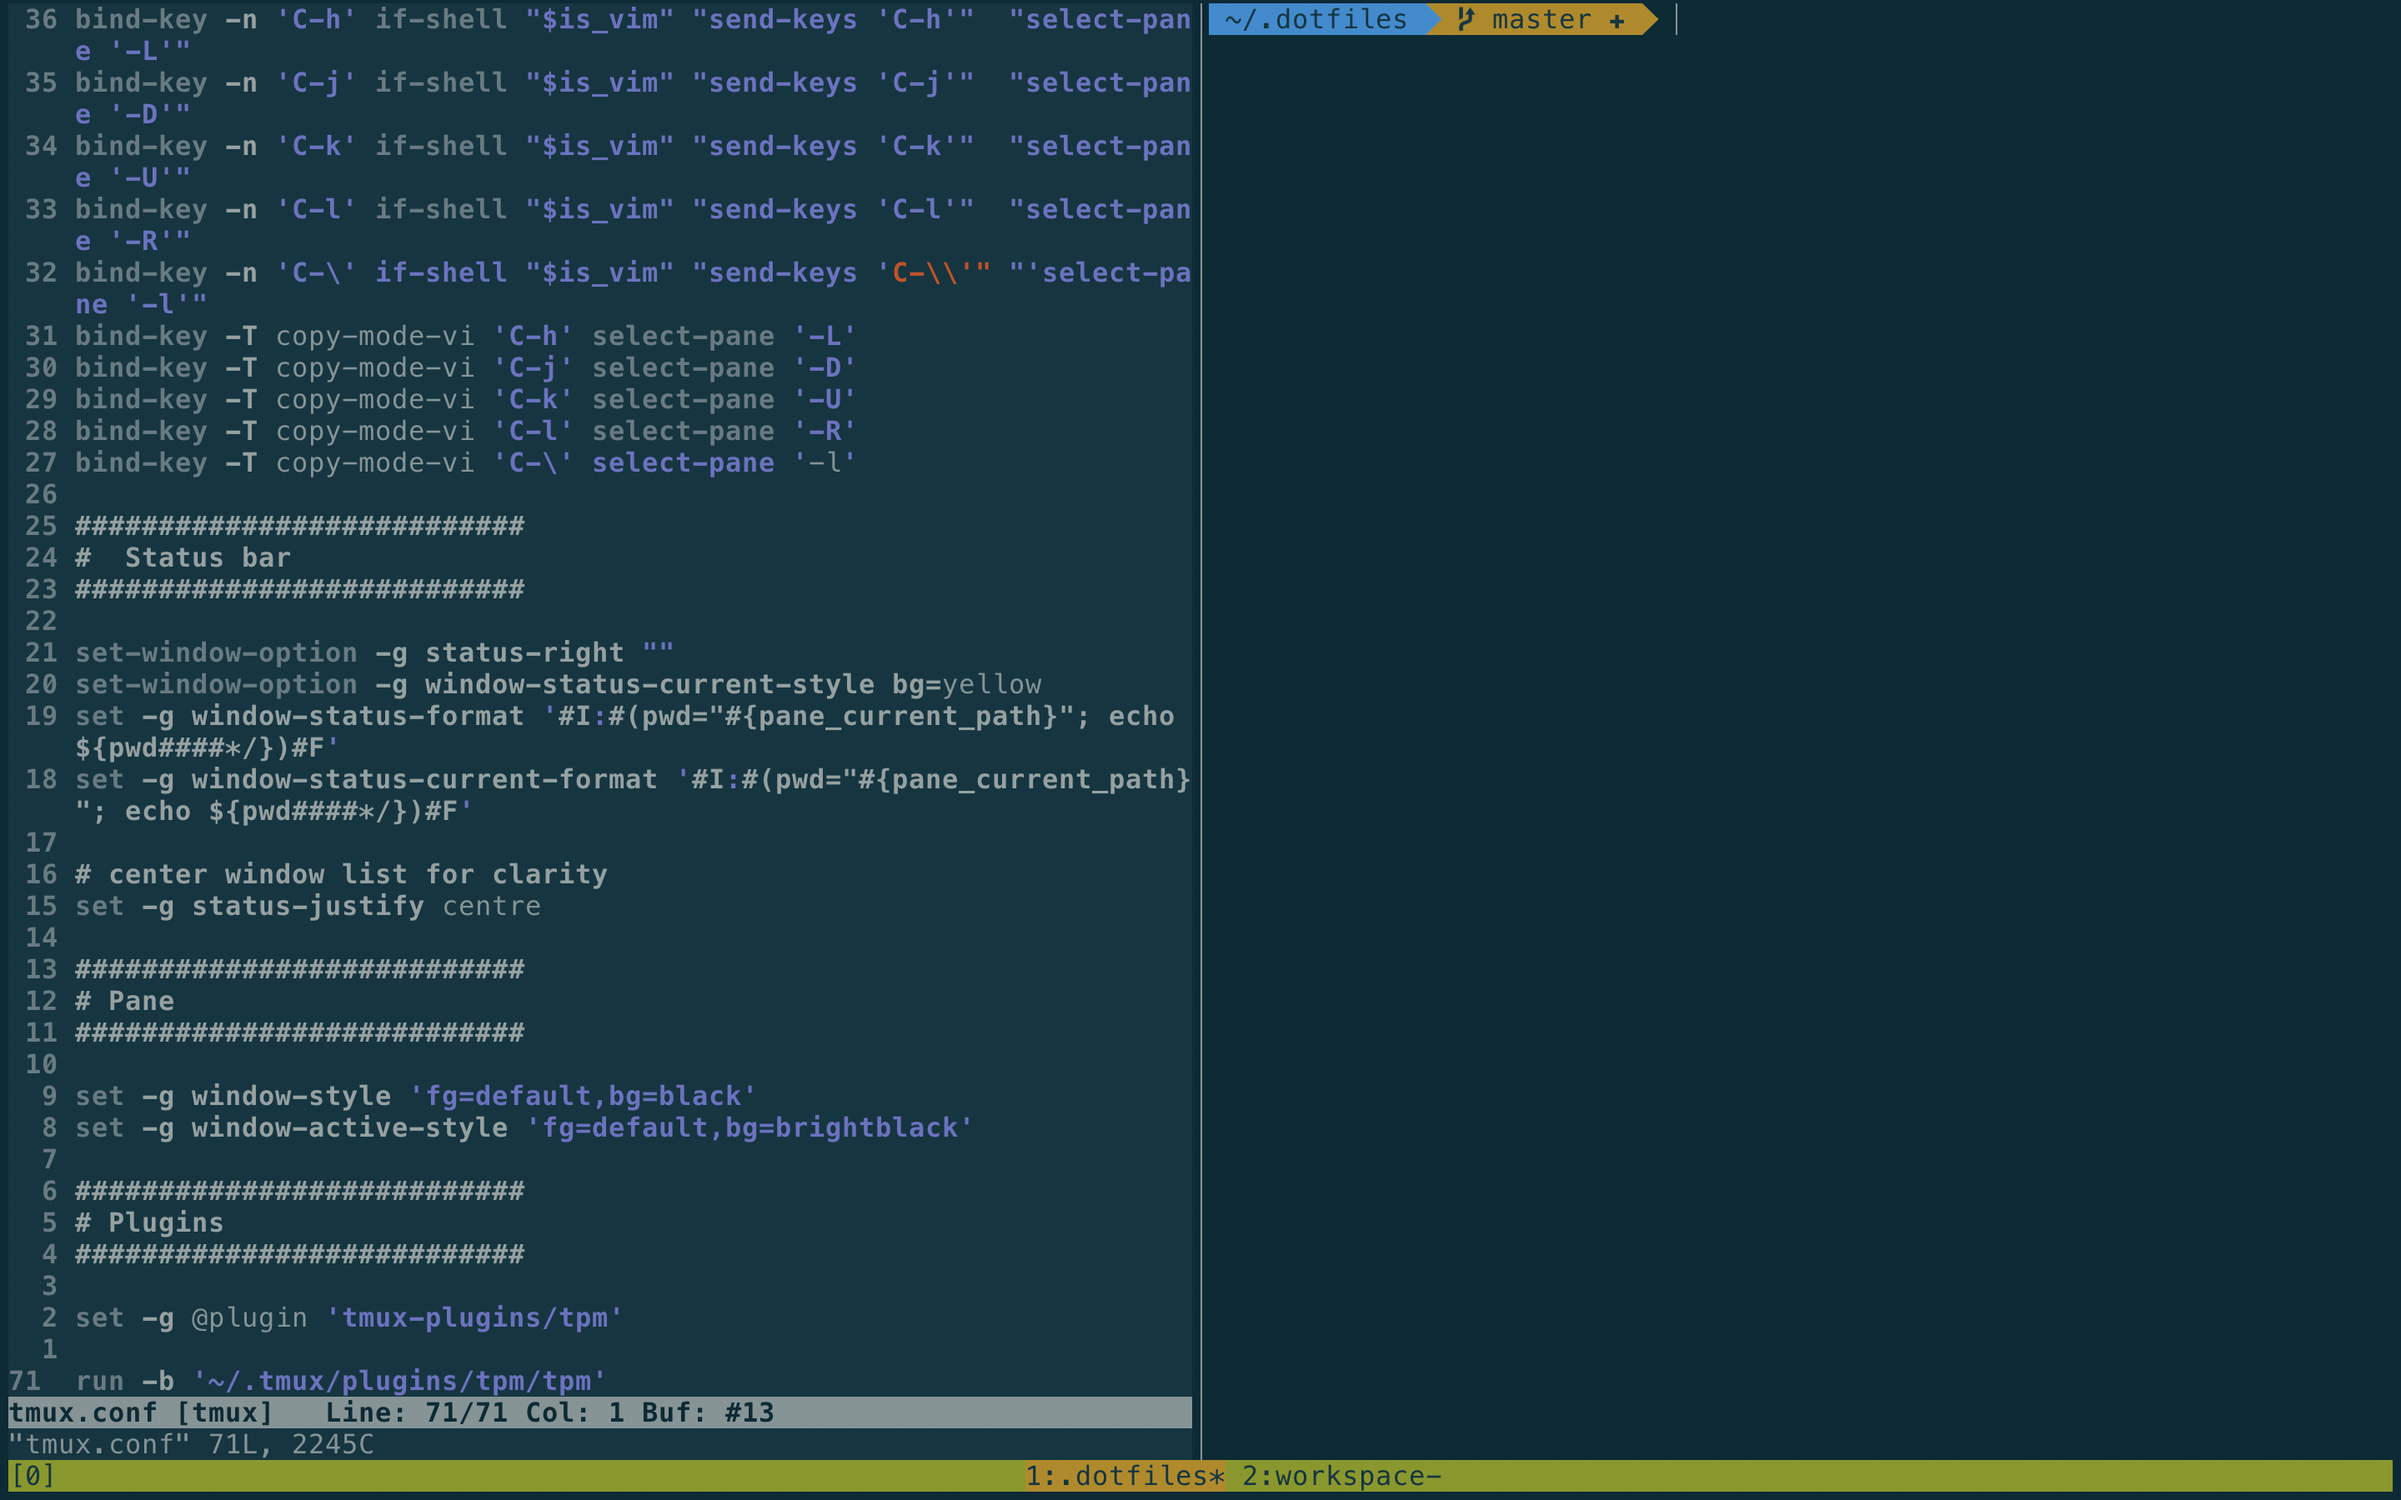
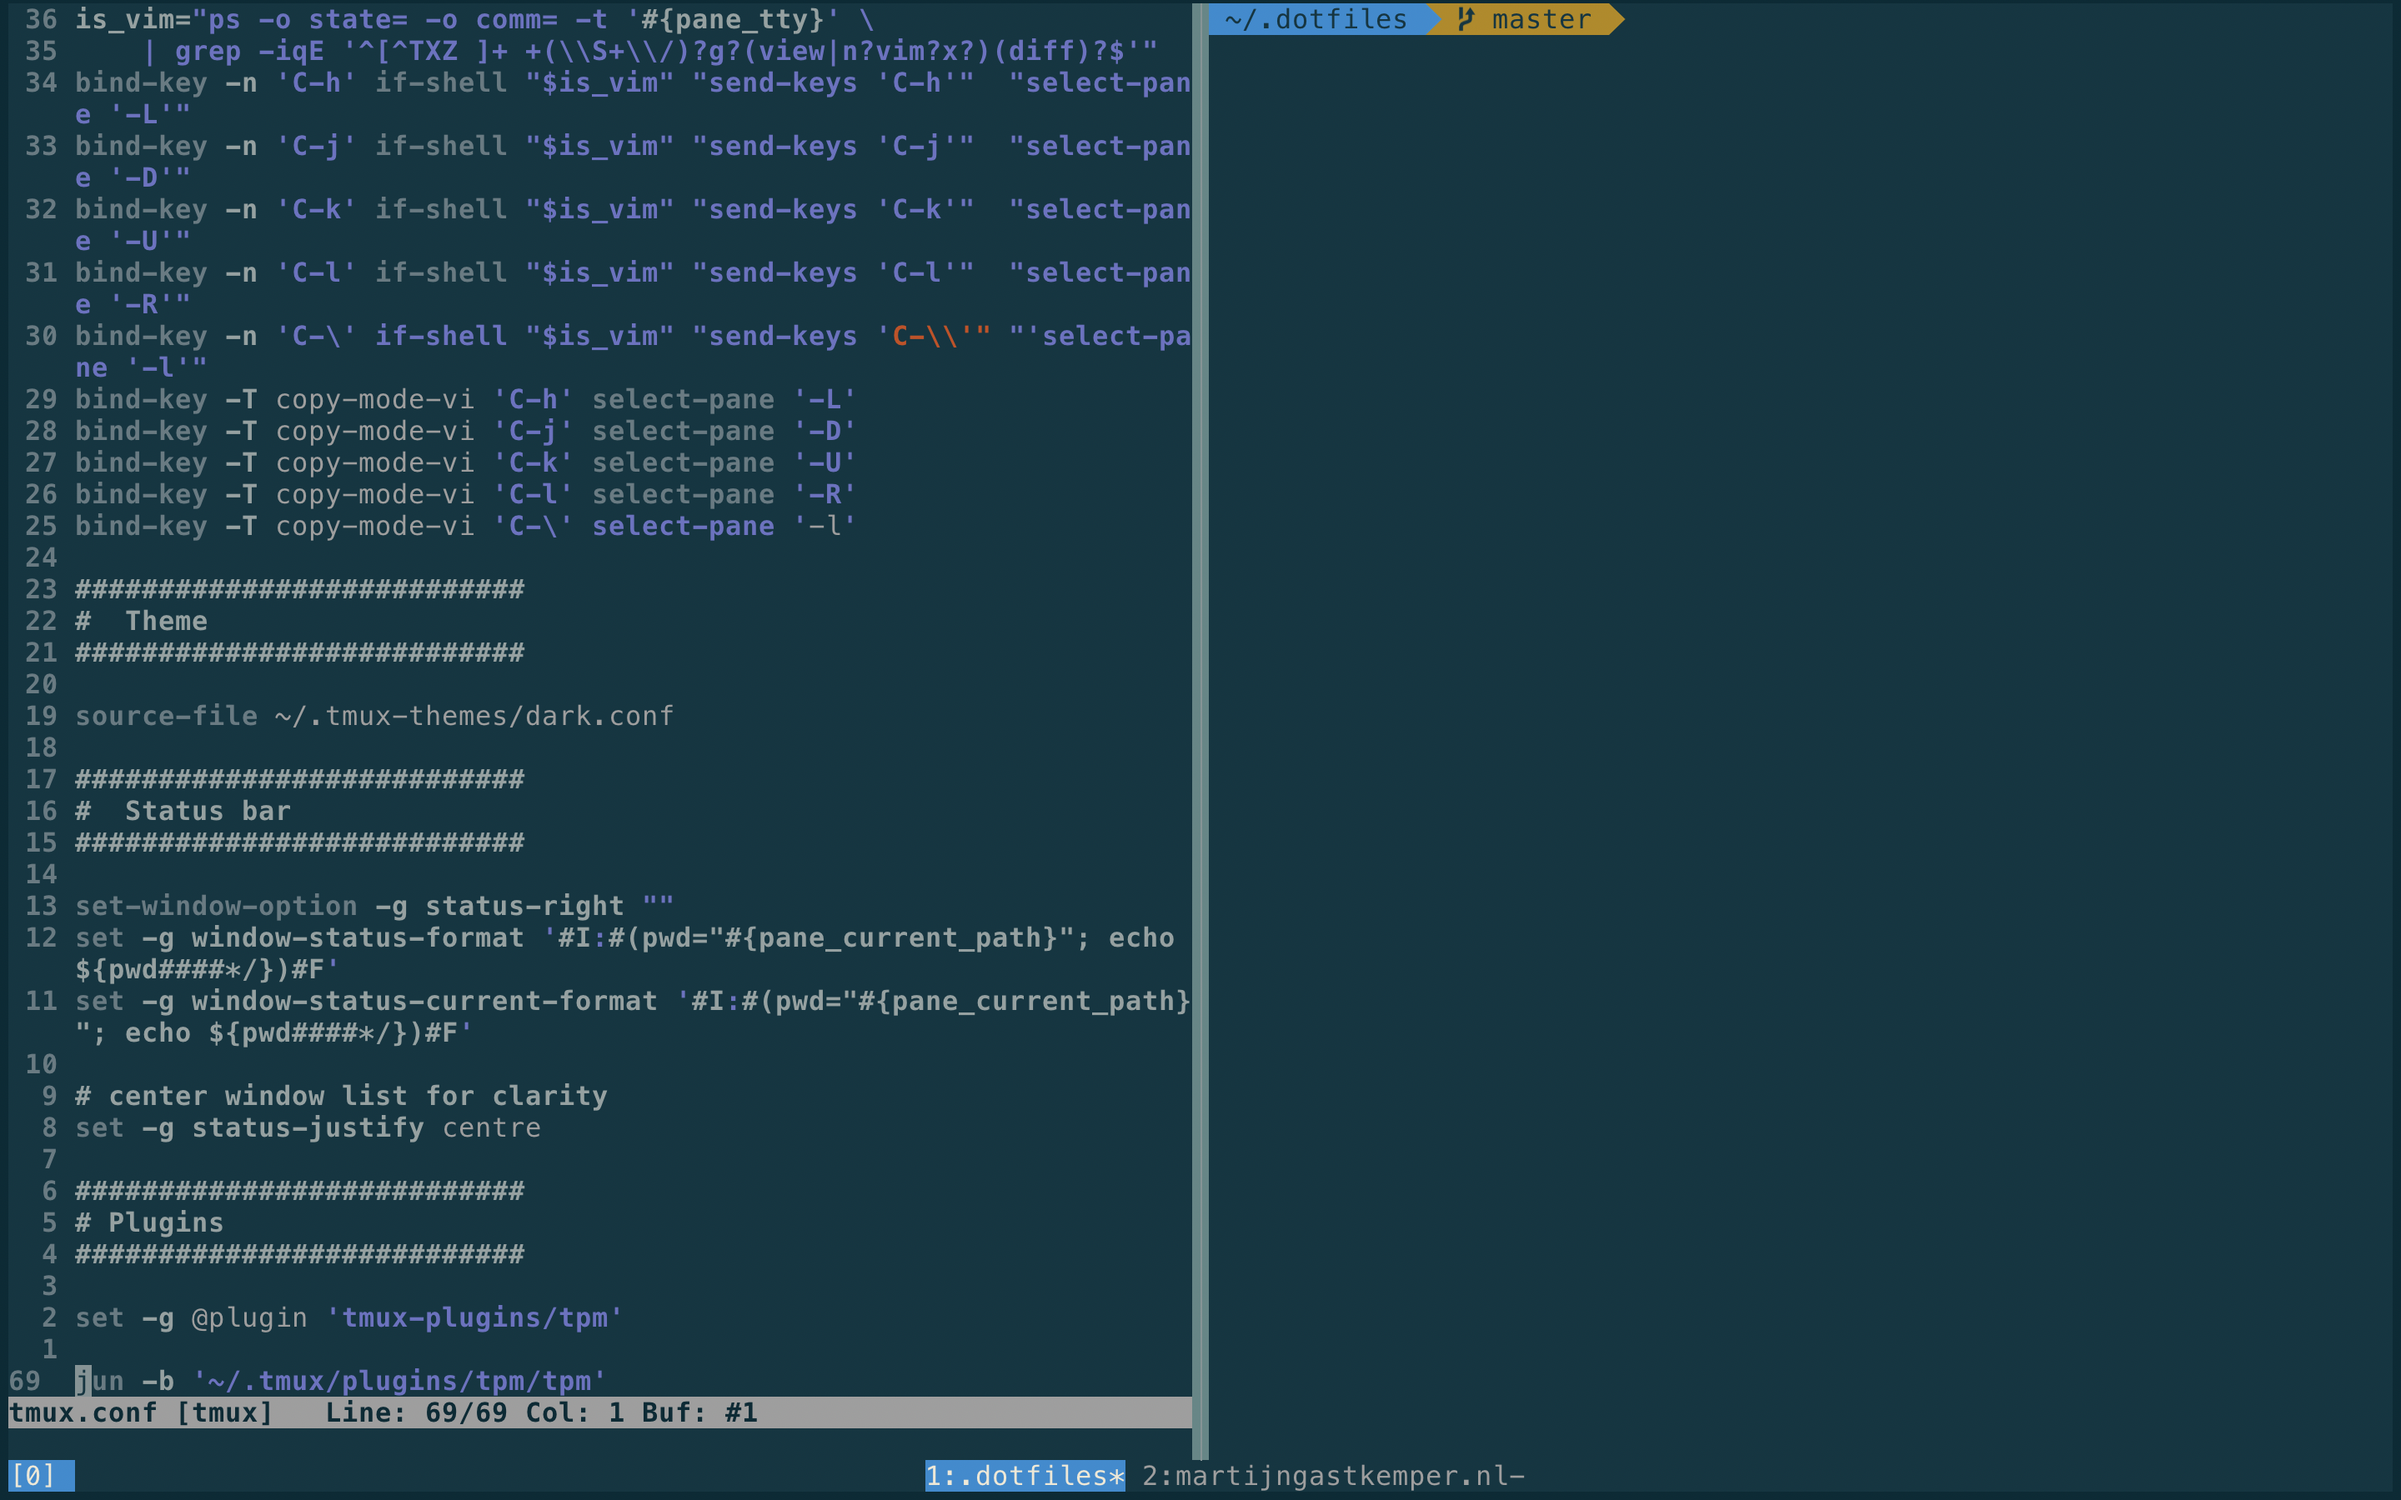
Add support for light mode

diff --git a/README.md b/README.md
@@ -12,6 +12,18 @@ Inspired by [harmenjanssen/dotfiles](https://github.com/harmenjanssen/dotfiles),
 
 Lists all the available source. For a fine grained install.
 
+### `bin/apply_git_templates`
+
+After changing a hook in `git_templates/` I want to apply these changes to existings checkouts. This scripts copies the files to `.git/` in the project. It asks to confirm overwriting existing files.
+
+### `bin/dark`
+
+Which tmux and vim to dark mode.
+
+### `bin/light`
+
+Which tmux and vim to light mode.
+
 ### `bin/public_port`
 
 When using Docker Compose it's not clear which public ports services expose. Looking into one of the `docker-compose*.yml` files is cumbersome. Use `public_port` to get the public port of a service.
@@ -27,10 +39,6 @@ Get the port for MySQL
     $ public_port 3306
     Private port 3306
     db: 0.0.0.0:20000
-
-### `bin/apply_git_templates`
-
-After changing a hook in `git_templates/` I want to apply these changes to existings checkouts. This scripts copies the files to `.git/` in the project. It asks to confirm overwriting existing files.
 
 ## Installation
 
